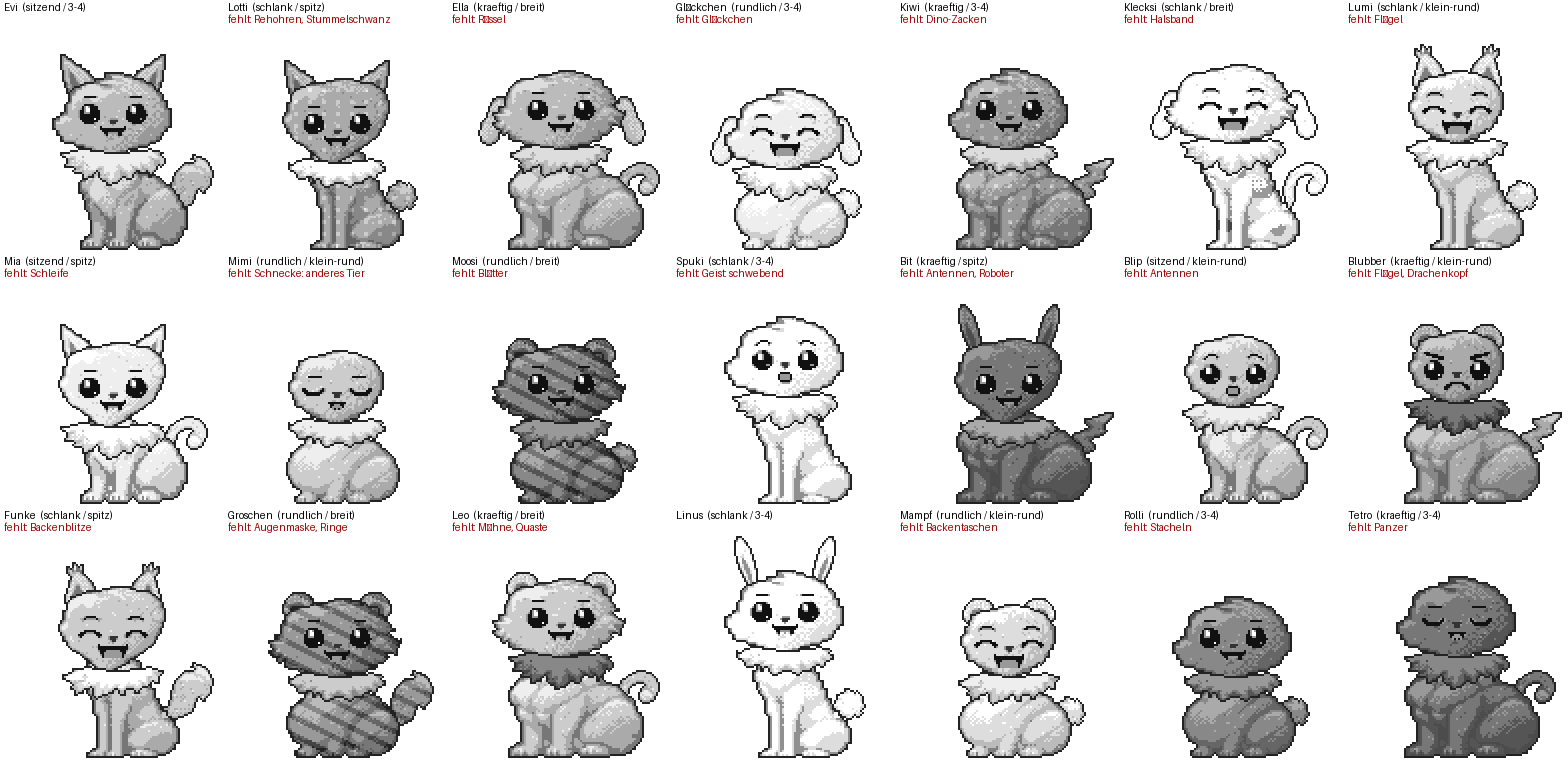
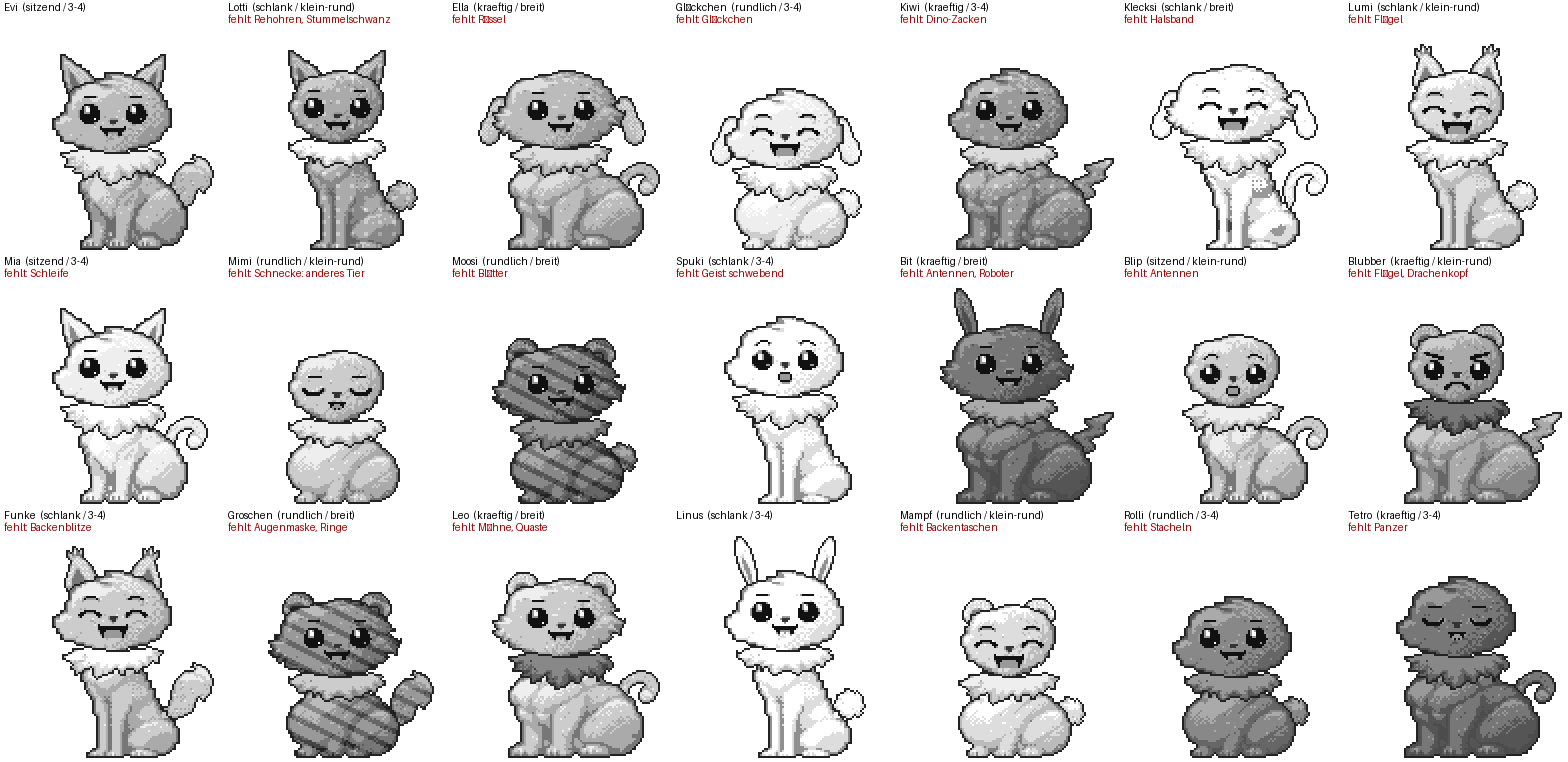
Bausatz: spitzen Kopf entfernt, Aufstellung neu
Claude-Session: https://claude.ai/code/session_01X43J6dzQtUUHUsjwp3UbdM

diff --git a/entwuerfe/bausatz-test/aufstellung.py b/entwuerfe/bausatz-test/aufstellung.py
@@ -29,10 +29,10 @@ F = {
  'Tetro':    (3, 1, 2, None, 'duenn', 'muede', 119, 136, None, 'Panzer'),
 }
 FORMEN = {
- 'Evi': ('sitzend', '3-4'), 'Lotti': ('schlank', 'spitz'), 'Ella': ('kraeftig', 'breit'), 'Glöckchen': ('rundlich', '3-4'),
- 'Kiwi': ('kraeftig', '3-4'), 'Klecksi': ('schlank', 'breit'), 'Lumi': ('schlank', 'klein-rund'), 'Mia': ('sitzend', 'spitz'),
- 'Mimi': ('rundlich', 'klein-rund'), 'Moosi': ('rundlich', 'breit'), 'Spuki': ('schlank', '3-4'), 'Bit': ('kraeftig', 'spitz'),
- 'Blip': ('sitzend', 'klein-rund'), 'Blubber': ('kraeftig', 'klein-rund'), 'Funke': ('schlank', 'spitz'), 'Groschen': ('rundlich', 'breit'),
+ 'Evi': ('sitzend', '3-4'), 'Lotti': ('schlank', 'klein-rund'), 'Ella': ('kraeftig', 'breit'), 'Glöckchen': ('rundlich', '3-4'),
+ 'Kiwi': ('kraeftig', '3-4'), 'Klecksi': ('schlank', 'breit'), 'Lumi': ('schlank', 'klein-rund'), 'Mia': ('sitzend', '3-4'),
+ 'Mimi': ('rundlich', 'klein-rund'), 'Moosi': ('rundlich', 'breit'), 'Spuki': ('schlank', '3-4'), 'Bit': ('kraeftig', 'breit'),
+ 'Blip': ('sitzend', 'klein-rund'), 'Blubber': ('kraeftig', 'klein-rund'), 'Funke': ('schlank', '3-4'), 'Groschen': ('rundlich', 'breit'),
  'Leo': ('kraeftig', 'breit'), 'Linus': ('schlank', '3-4'), 'Mampf': ('rundlich', 'klein-rund'), 'Rolli': ('rundlich', '3-4'),
  'Tetro': ('kraeftig', '3-4'),
 }

diff --git a/entwuerfe/bausatz-test/formen.py b/entwuerfe/bausatz-test/formen.py
@@ -10,8 +10,7 @@ from basis3 import Leinwand, rollen, muster_maske, W, H, HIER, TEILE, Z
 from ki_teile import lade_teil
 
 BODEN = 110
-# Köpfe mit spitzem Kinn sitzen tiefer, damit das Kinn in der Halskrause verschwindet (Nutzerin, 27.11.)
-KOPF_TIEFER = {'spitz': 10}
+KOPF_TIEFER = {}   # Platz für kopfspezifische Absenkung (der spitze Kopf wurde am 27.11. entfernt)
 
 def datei(art, form, bevorzugt=None):
     if art == 'koerper' and form == 'sitzend': return TEILE / 'koerper-sitzend-2.png'
@@ -60,10 +59,10 @@ def baue_form(koerper='sitzend', kopf='3-4', kruse=2, ohren='spitz', schwanz='bu
     return c
 
 KOERPER = ['sitzend', 'rundlich', 'schlank', 'kraeftig']
-KOEPFE = ['3-4', 'klein-rund', 'breit', 'spitz']
+KOEPFE = ['3-4', 'klein-rund', 'breit']
 if __name__ == '__main__':
     z = 2
-    out = Image.new('RGB', (4 * W * z, 4 * (H * z + 14)), 'white'); d = ImageDraw.Draw(out)
+    out = Image.new('RGB', (3 * W * z, 4 * (H * z + 14)), 'white'); d = ImageDraw.Draw(out)
     for j, k in enumerate(KOERPER):
         for i, h in enumerate(KOEPFE):
             c = baue_form(k, h)

diff --git a/entwuerfe/bausatz-test/schablonen_basis.py b/entwuerfe/bausatz-test/schablonen_basis.py
@@ -43,7 +43,6 @@ for n, ((gw, gh), hals, schwanz) in FORMEN_KOERPER.items():
 FORMEN_KOPF = {  # Name: (Raster, Hals, Ohr links, Ohr rechts, Gesicht)
     'klein-rund': ((52, 40), (26, 36), (11, 7), (41, 7), (26, 22)),
     'breit':      ((68, 44), (34, 40), (15, 8), (53, 8), (34, 24)),
-    'spitz':      ((56, 46), (28, 42), (11, 8), (45, 8), (28, 26)),
 }
 for n, ((gw, gh), hals, ol, orr, g) in FORMEN_KOPF.items():
     schablone(f'schablone-kopf-{n}.png', gw, gh, [(hals, 'Hals', ROT), (ol, 'Ohr links', BLAU), (orr, 'Ohr rechts', BLAU), (g, 'Gesicht', GRUEN)], f'Kopf {n} {gw}x{gh}')

diff --git a/entwuerfe/bausatz-test/basis3_layout.py b/entwuerfe/bausatz-test/basis3_layout.py
@@ -46,5 +46,4 @@ KOPF_FORMEN = {
     '3-4':        dict(groesse=(60, 44), hals=(30, 40), ohr_l=(13, 8), ohr_r=(47, 8), gesicht=(30, 24)),
     'klein-rund': dict(groesse=(52, 40), hals=(26, 36), ohr_l=(11, 7), ohr_r=(41, 7), gesicht=(26, 22)),
     'breit':      dict(groesse=(68, 44), hals=(34, 40), ohr_l=(15, 8), ohr_r=(53, 8), gesicht=(34, 24)),
-    'spitz':      dict(groesse=(56, 46), hals=(28, 42), ohr_l=(11, 8), ohr_r=(45, 8), gesicht=(28, 26)),
 }

diff --git a/entwuerfe/bausatz-test/ki_teile.py b/entwuerfe/bausatz-test/ki_teile.py
@@ -24,7 +24,6 @@ SCHABLONEN = {
     'koerper-kraeftig': ((84, 50), (42, 3)),
     'kopf-klein-rund': ((52, 40), (26, 36)),
     'kopf-breit': ((68, 44), (34, 40)),
-    'kopf-spitz': ((56, 46), (28, 42)),
     'kopf': ((60, 44), (30, 40)),
     'kruse': ((56, 20), (28, 2)),
 }

diff --git a/entwuerfe/bausatz-test/PROMPT-ki-formen.md b/entwuerfe/bausatz-test/PROMPT-ki-formen.md
@@ -1,6 +1,6 @@
 # Prompt für die Bild-KI: weitere Körper- und Kopfformen (27. November 2026)
 
-Ziel: **mehr Variation in der Silhouette.** Der Variationstest (`pruefbogen-aufstellung.png`) zeigt: Mit einer einzigen Körper- und Kopfform sehen alle Figuren gleich aus, nur Ohren, Schwanz, Fellton und Muster unterscheiden sich. Dieser Auftrag liefert **3 weitere Körper (sitzend)** und **3 weitere Köpfe**. Danach gibt es 4 × 4 Grundformen.
+Ziel: **mehr Variation in der Silhouette.** Der Variationstest (`pruefbogen-aufstellung.png`) zeigt: Mit einer einzigen Körper- und Kopfform sehen alle Figuren gleich aus, nur Ohren, Schwanz, Fellton und Muster unterscheiden sich. Dieser Auftrag liefert **3 weitere Körper (sitzend)** und **2 weitere Köpfe** (der dritte, „spitz“, wurde am 27.11. verworfen). Danach gibt es 4 × 3 Grundformen.
 
 Gleiche Methode wie [PROMPT-ki-basis.md](PROMPT-ki-basis.md) und [PROMPT-ki-posen.md](PROMPT-ki-posen.md): ein Teil allein auf der Schablone, feste Grauwerte, Skript setzt zusammen. Der sitzende Körper 2 und der Kopf 2 sind die Vorbilder für Stil, Linie und Fellton.
 
@@ -20,7 +20,6 @@ Gleiche Methode wie [PROMPT-ki-basis.md](PROMPT-ki-basis.md) und [PROMPT-ki-pose
 |---|---|---|---|---|---|---|---|
 | klein-rund | `kopf-klein-rund-<nr>.png` | 52 × 40 | 416 × 320 | (26, 36) | (11, 7) / (41, 7) | (26, 22) | klein, fast kreisrund (Hamster, Maus, Küken) |
 | breit | `kopf-breit-<nr>.png` | 68 × 44 | 544 × 352 | (34, 40) | (15, 8) / (53, 8) | (34, 24) | sehr breit mit dicken Backen und Backenfell (Löwe, Waschbär, Katze) |
-| spitz | `kopf-spitz-<nr>.png` | 56 × 46 | 448 × 368 | (28, 42) | (11, 8) / (45, 8) | (28, 26) | herzförmig, schmales spitzes Kinn (Fuchs, Eichhörnchen, Reh) |
 
 ## Grauwerte, Stil, Richtung (wie bisher)
 34 Umriss (1 Pixel), 119 innen, 170 Schatten, 204 Fell, 238 Licht, 255 Hintergrund. Nur diese Werte, Dithering, ein paar Fellpunkte, keine Halbtöne, kein Anti-Aliasing. Blickrichtung leicht nach **links** (3/4). Artneutral.
@@ -46,12 +45,11 @@ Draw it in EXACTLY the style, line weight, fur tones and level of detail of the 
 | Körper kräftig | the headless body of the character sitting upright, sturdy and strong: broad shoulders, wide chest, thick front legs, big haunch. NO head, NO ears, NO tail, NO neck ruff. Open neck edge at the red cross, plain fur at the blue cross, paws on the last grid row. | 672 x 400 |
 | Kopf klein-rund | the head of the character: small and almost perfectly round, short soft cheeks, plain blank face (NO eyes, NO nose, NO mouth, NO whiskers, NO ears). Closed chin/neck at the bottom, centered on the red cross. | 416 x 320 |
 | Kopf breit | the head of the character: very wide with big fluffy cheek tufts on both sides, low and broad, plain blank face (NO eyes, NO nose, NO mouth, NO whiskers, NO ears). Closed chin/neck at the bottom, centered on the red cross. | 544 x 352 |
-| Kopf spitz | the head of the character: heart-shaped with a narrow pointed chin and wider forehead, plain blank face (NO eyes, NO nose, NO mouth, NO whiskers, NO ears). Closed chin/neck at the bottom, centered on the red cross. | 448 x 368 |
 
 Je Teil **3 Varianten** erzeugen, die beste behalten.
 
 ## Ablage
-`ki/teile/koerper-rundlich-<nr>.png`, `koerper-schlank-<nr>.png`, `koerper-kraeftig-<nr>.png`, `kopf-klein-rund-<nr>.png`, `kopf-breit-<nr>.png`, `kopf-spitz-<nr>.png`.
+`ki/teile/koerper-rundlich-<nr>.png`, `koerper-schlank-<nr>.png`, `koerper-kraeftig-<nr>.png`, `kopf-klein-rund-<nr>.png`, `kopf-breit-<nr>.png`.
 
 ## Was danach passiert
 - Ich erweitere die Zusammensetzung um diese Formen. Platzierung: Boden bei y = 110, Körper-Hals mittig. Die Regeln stehen in `basis3_layout.py` (`KOERPER_FORMEN`, `KOPF_FORMEN`).

diff --git a/entwuerfe/bausatz-test/README.md b/entwuerfe/bausatz-test/README.md
@@ -38,4 +38,4 @@ Grenzen: Seitenansichten (Laufen, Schnüffeln) gehen so nicht, dafür brauchen K
 `posen3.py` → `pruefbogen-posen-basis3.png`: sitzend, laufen, hüpfen, geduckt, eingerollt (+ Zzz) mit denselben Köpfen, Ohren, Schwänzen und Gesichtern. Körper: `ki/teile/koerper-<pose>-<nr>.png`, Ansatz- und Zielpunkte je Pose in `basis3_layout.py` (`POSEN`). `emotionen3.py` zeigt 11 Gefühle, `aufstellung.py` alle 21 Figuren als Rezept (Variationstest, `pruefbogen-aufstellung.png`).
 
 ## Weitere Körper- und Kopfformen (27. November 2026)
-Körper rundlich, schlank, kräftig und Köpfe klein-rund, breit, spitz (`ki/teile/…`). `formen.py` setzt sitzende Figuren aus beliebigen Körper- und Kopfformen zusammen (`pruefbogen-formen.png`, 4 × 4 Grundformen). `aufstellung.py` baut mit diesen Formen alle 21 Figuren (`pruefbogen-aufstellung-formen.png`; der ältere Bogen mit nur einer Form heißt `pruefbogen-aufstellung.png`). Nur sitzend; die Posen laufen, hüpfen, geduckt, eingerollt gibt es bisher nur für die Normalform.
+Körper rundlich, schlank, kräftig und Köpfe klein-rund und breit (der spitze Kopf wurde verworfen) (`ki/teile/…`). `formen.py` setzt sitzende Figuren aus beliebigen Körper- und Kopfformen zusammen (`pruefbogen-formen.png`, 4 × 3 Grundformen). `aufstellung.py` baut mit diesen Formen alle 21 Figuren (`pruefbogen-aufstellung-formen.png`; der ältere Bogen mit nur einer Form heißt `pruefbogen-aufstellung.png`). Nur sitzend; die Posen laufen, hüpfen, geduckt, eingerollt gibt es bisher nur für die Normalform.
